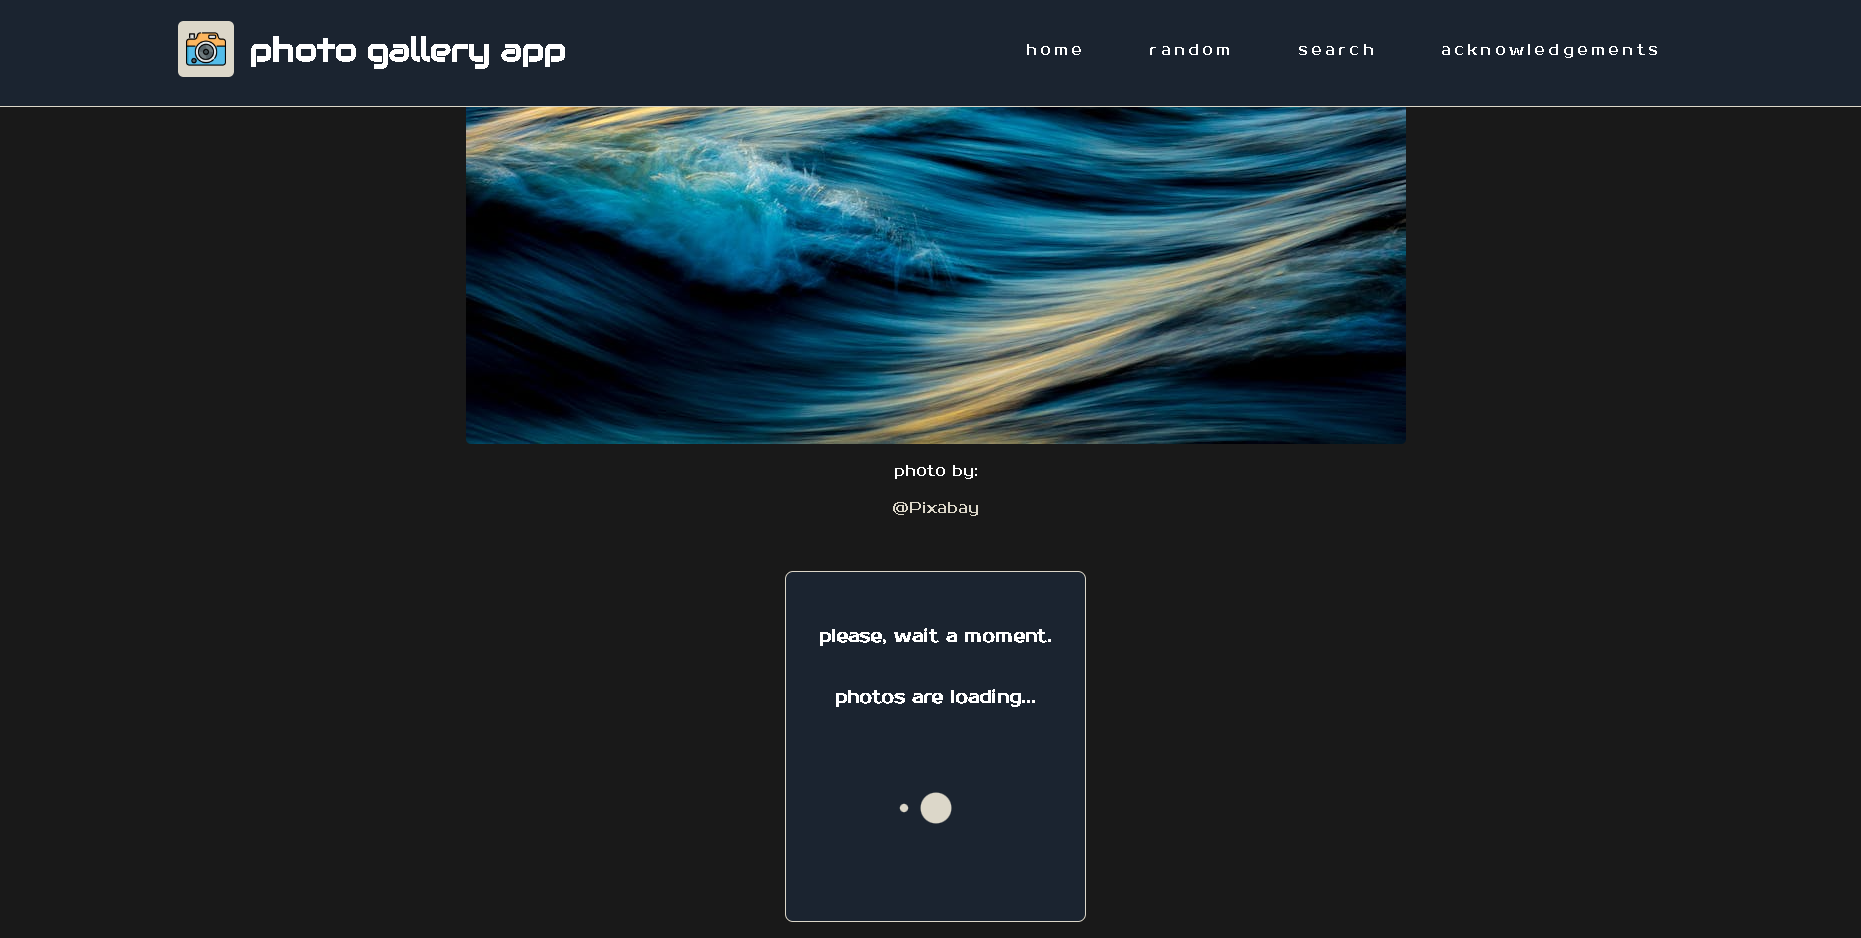
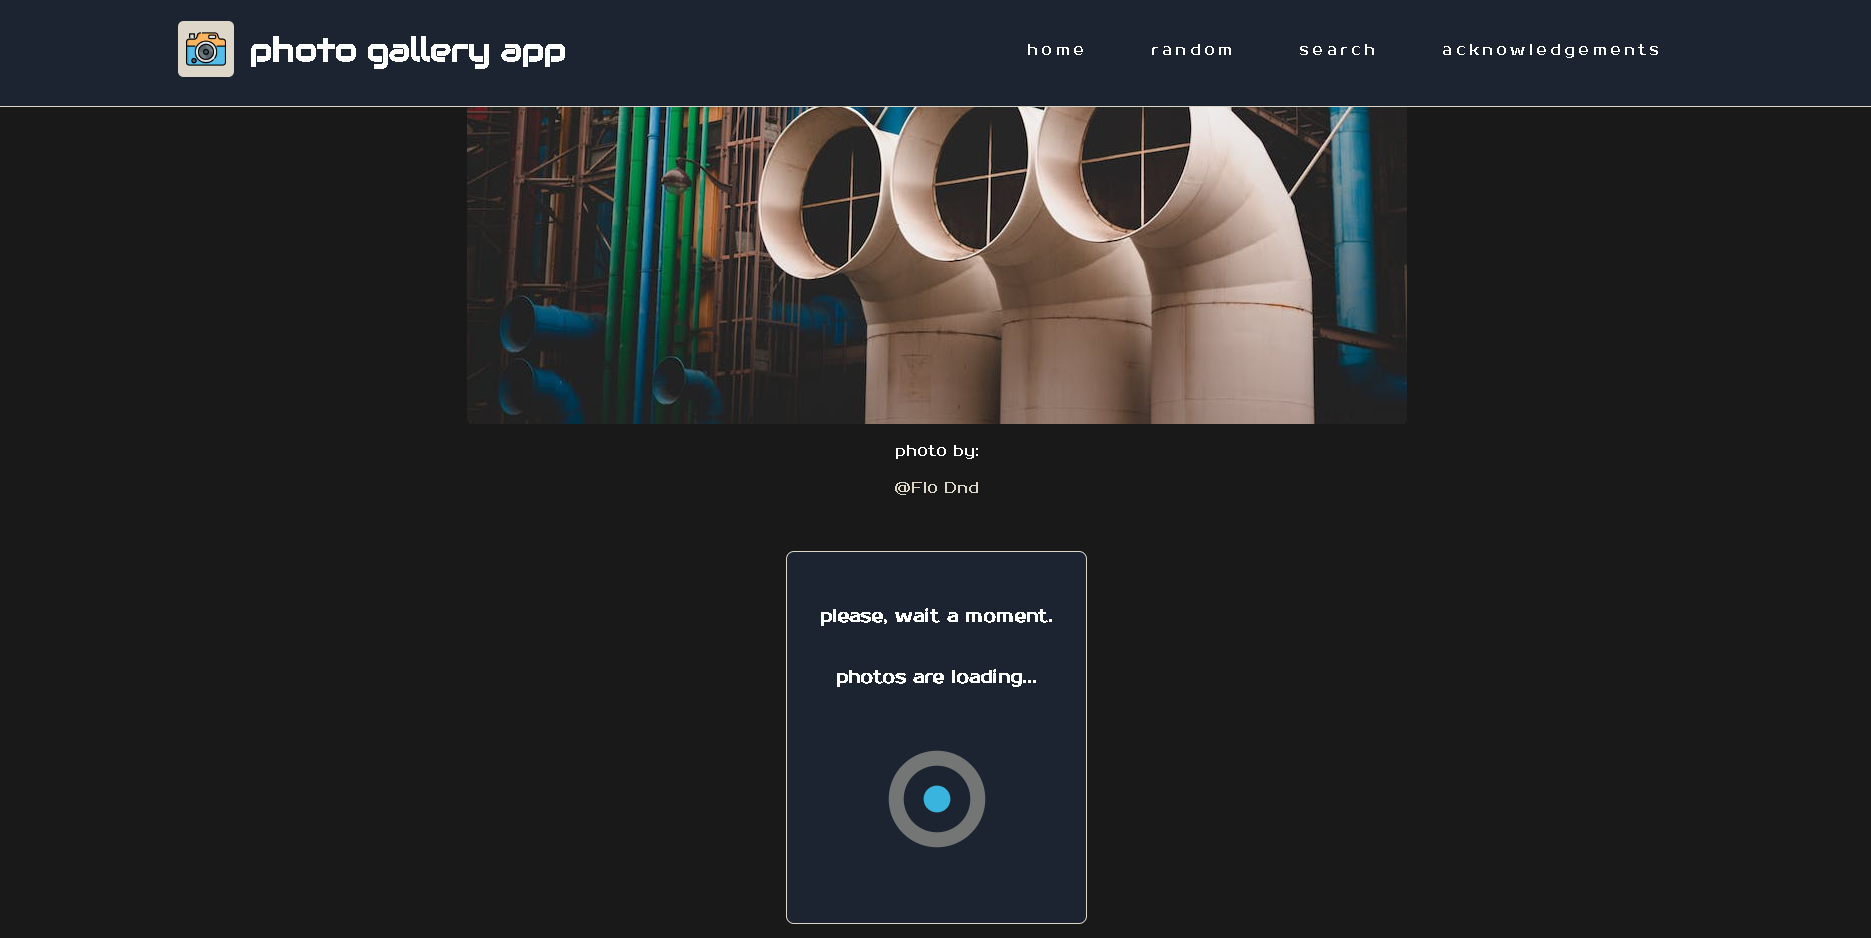
Loading spinner now using the react-spinners-components library. Readme and screenshots updated

diff --git a/src/Components/PresentationalComponents/LoadingSpinner/LoadingSpinner.tsx b/src/Components/PresentationalComponents/LoadingSpinner/LoadingSpinner.tsx
@@ -1,11 +1,11 @@
-import ReactLoading from 'react-loading';
+import LoadingSpinnerComponent from 'react-spinners-components';
 
 const LoadingSpinner = () => {
     return(
         <div className={ 'loadingSpinner' } data-testid={ 'loadingSpinner' } >
             <h3>please, wait a moment.</h3>
             <h3>photos are loading...</h3>
-            <ReactLoading type={ 'bubbles' } color={ '#DCD7C9' } height={ '8rem' } width={ '8rem' } />
+            <LoadingSpinnerComponent type={ 'Ripple' } colors={ [ '#DCD7C9', '#39B5E0'] } size={ '150px' } />
         </div>
     );
 };

diff --git a/README.md b/README.md
@@ -24,7 +24,7 @@ The SPA was coded using TypeScript and React and Redux libraries.
 
 The SPA fetches all photos from Pexels API (https://www.pexels.com/api/documentation/). To find a random word to search for related photos, the SPA uses the random-words package (https://www.npmjs.com/package/random-words).
 
-The loading spinner animation used while waiting for photos to be fetched and shown is based on the react-loading package (https://www.npmjs.com/package/react-loading).
+The loading spinner animation used while waiting for photos to be fetched and shown is based on the react-spinners-components package (https://www.npmjs.com/package/react-spinners-components / https://github.com/kazimkazam/react-spinners-components).
 
 The Footer component was not planned to be like it is, i.e., not even looks like a footer... But I'll leave this way for now. This way, is also preety fast to change the component's look to whatever we may want to.
 
@@ -37,11 +37,11 @@ The website is running on:
 - "random-words": "^1.2.0",
 - "react": "^18.2.0",
 - "react-dom": "^18.2.0",
-- "react-loading": "^2.0.3",
 - "react-redux": "^8.0.5",
 - "react-router-dom": "^6.6.1",
 - "react-scripts": "5.0.1",
 - "typescript": "^4.9.4",
+- "react-spinners-components": "^2.0.1",
 
 ## How to Use
 
@@ -61,7 +61,7 @@ When the user enters the website, the homepage will be presented. From here, the
 
 ![image](https://github.com/kazimkazam/photo-gallery/blob/master/screenshots/client/randomPhotos.png?raw=true)
 
-### Page Random loading photos when no results are found
+### Page Random when no results are found
 
 ![image](https://github.com/kazimkazam/photo-gallery/blob/master/screenshots/client/randomNoPhotos.png?raw=true)
 
@@ -108,7 +108,7 @@ To intersect requests made to the Pexels API, it was used the Mock Service Worke
 - Camera icons created by Freepik - Flaticon (https://www.flaticon.com/free-icons/camera);
 - Homepage Wallpaper: photo by Tim Mossholder from Pexels (https://www.pexels.com/photo/black-and-white-wooden-welcome-sign-3643925/);
 - All photos present on this website are fetched from Pexels (https://www.pexels.com);
-- Loading spinner animation (https://www.npmjs.com/package/react-loading).
+- Loading spinner animation (https://www.npmjs.com/package/react-spinners-components / https://github.com/kazimkazam/react-spinners-components).
 
 ## Licence
 
